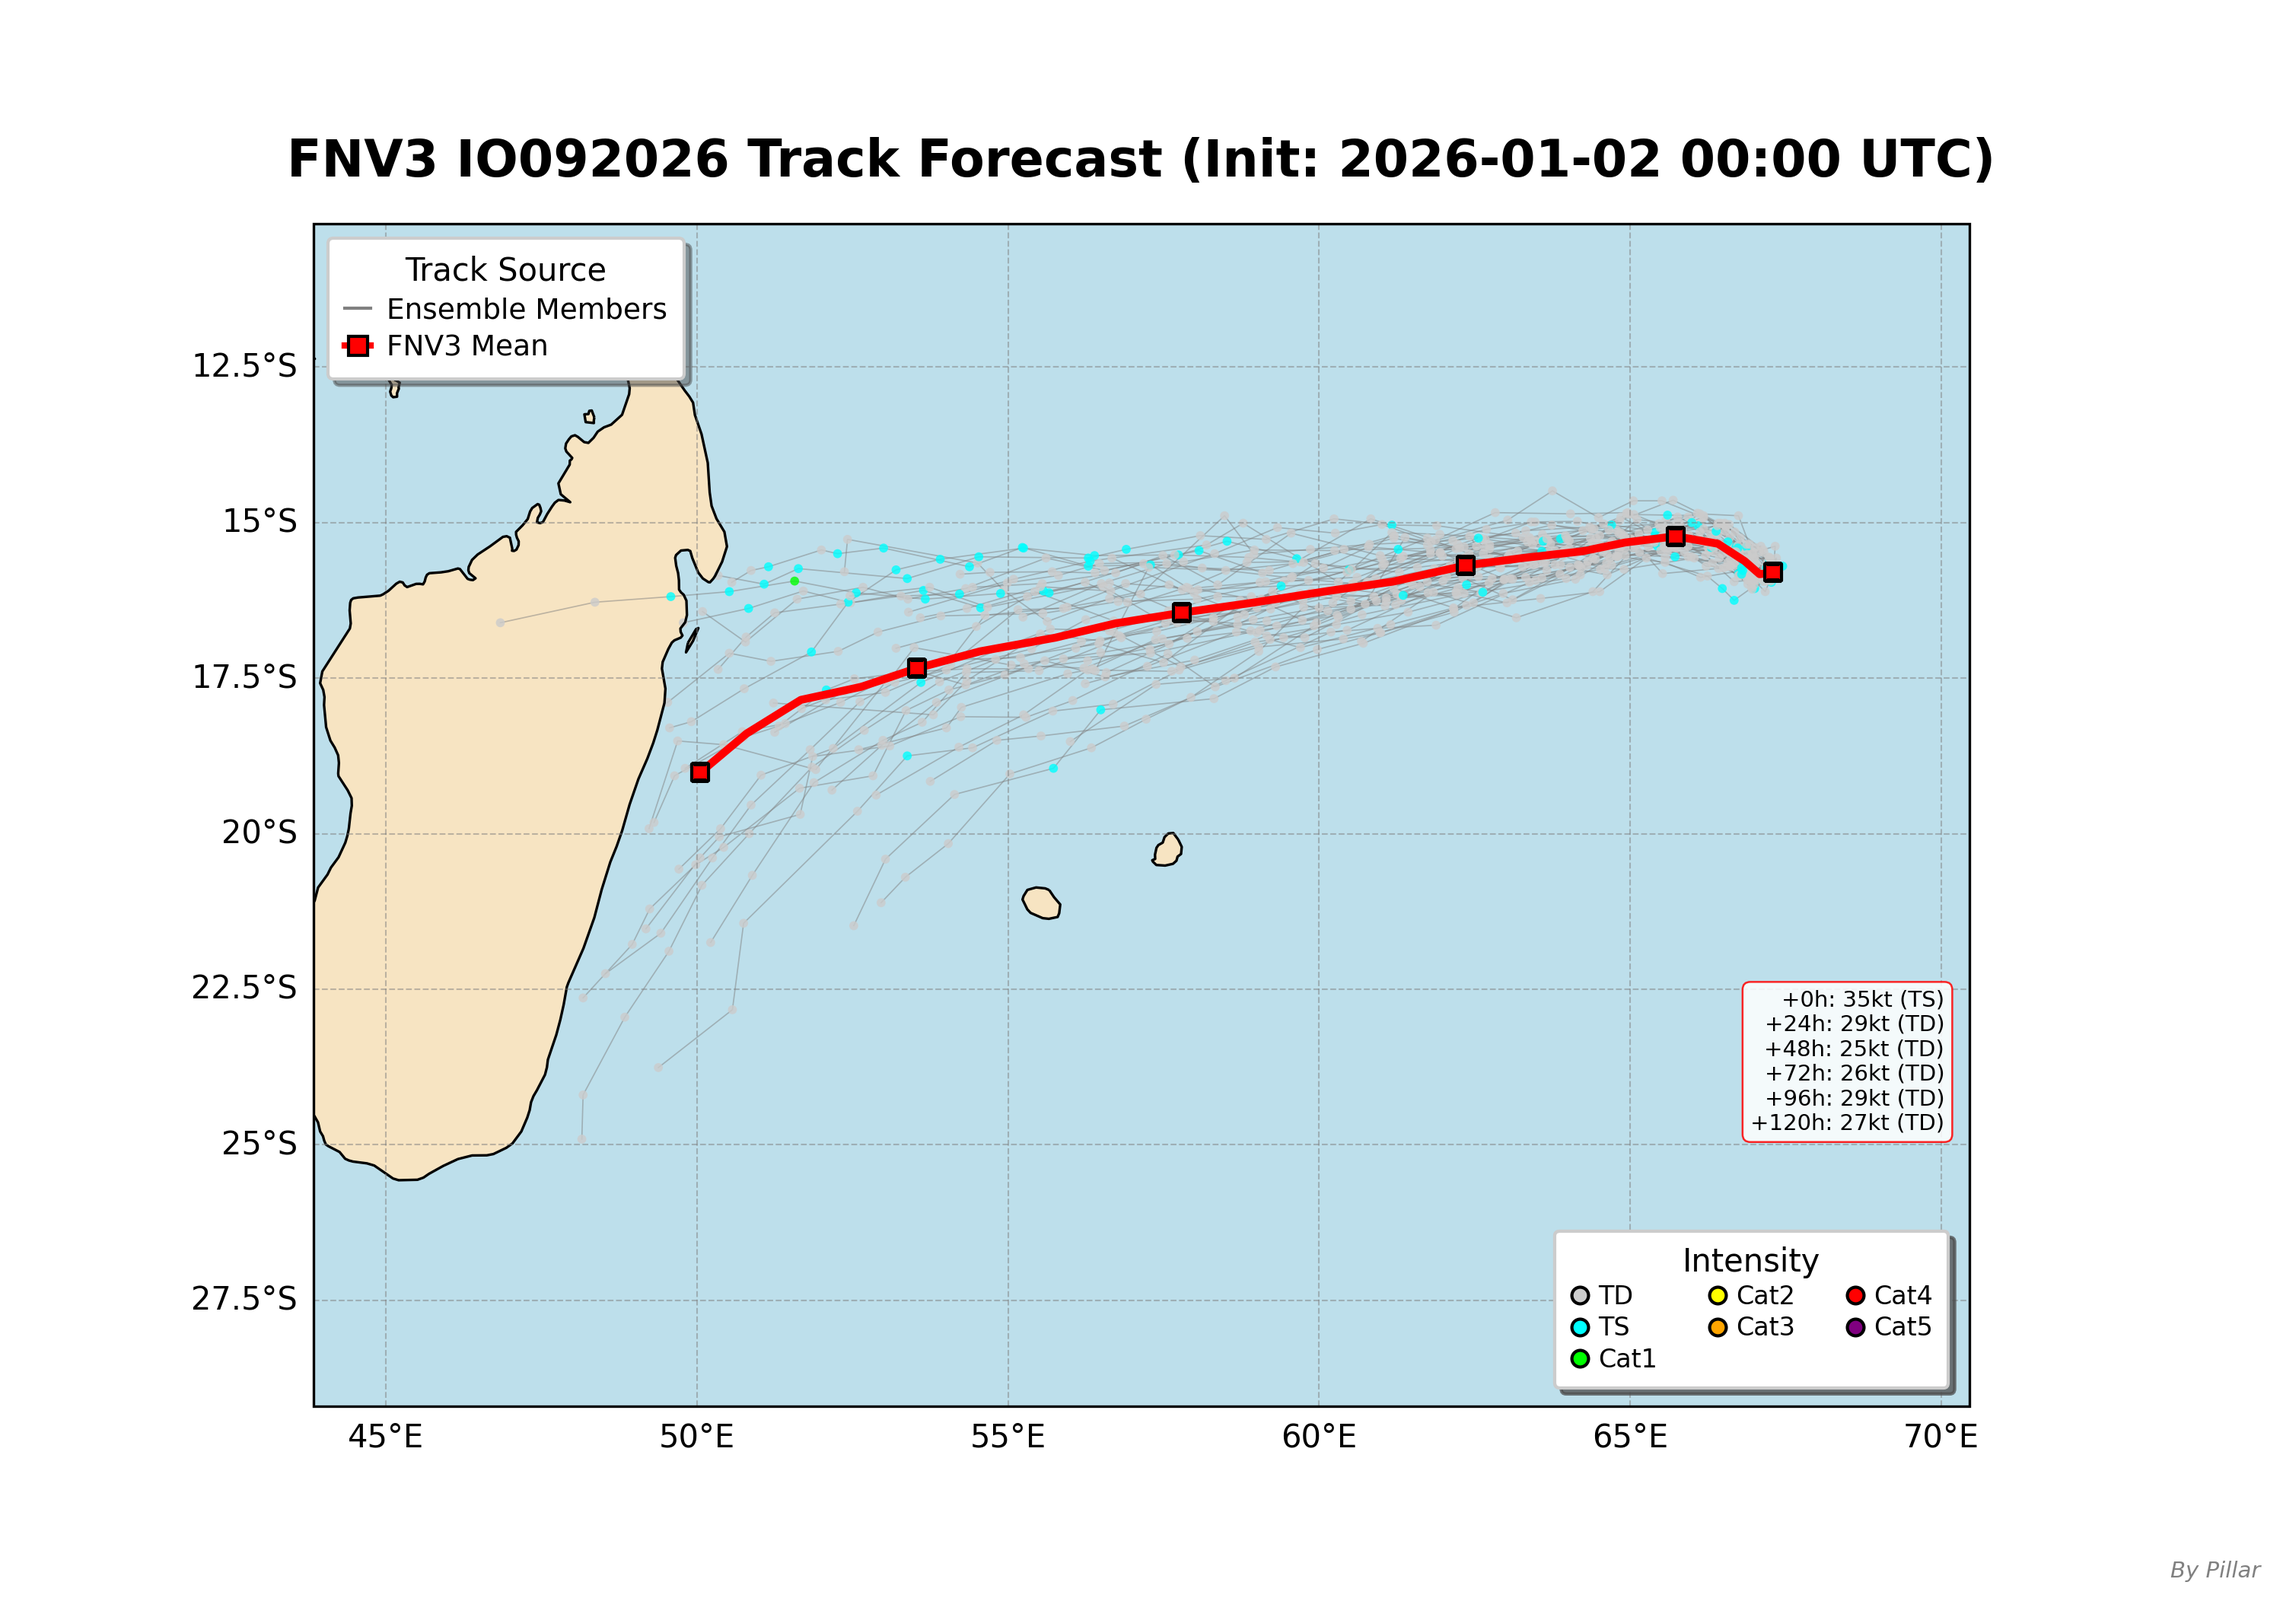
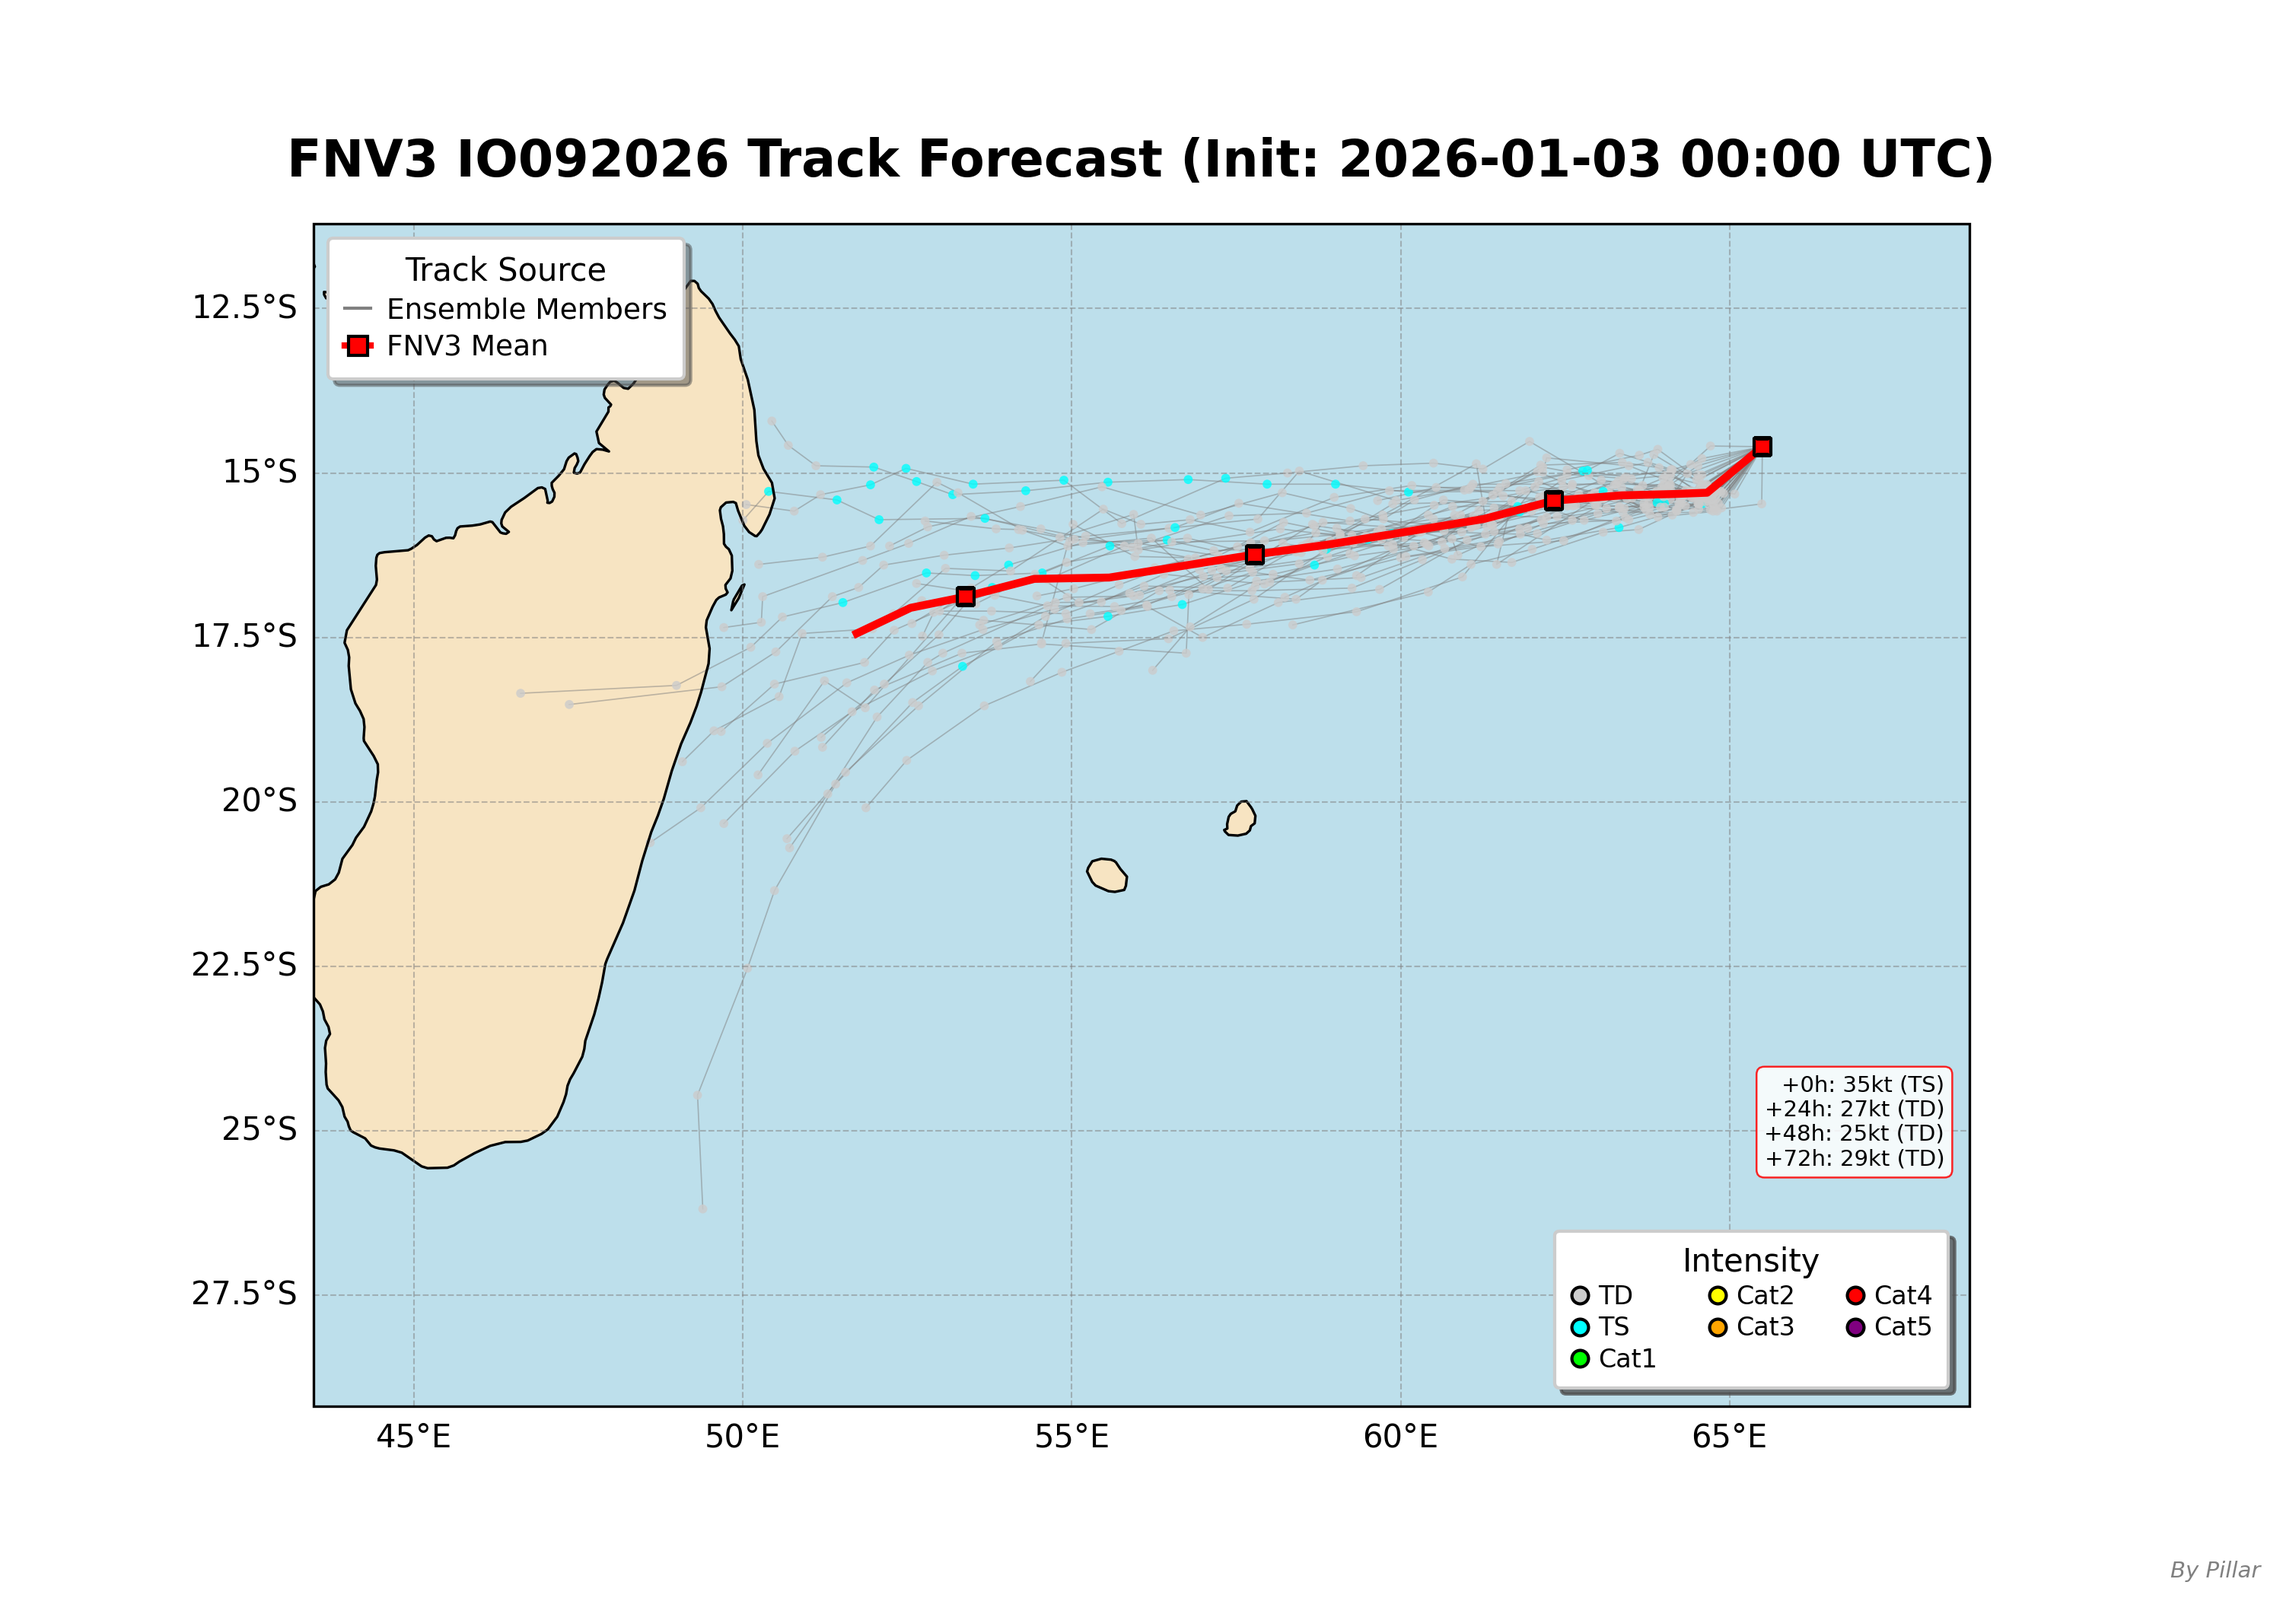
Add files via upload

diff --git a/index.html b/index.html
@@ -3,7 +3,7 @@
 <head>
     <meta charset="UTF-8">
     <meta name="viewport" content="width=device-width, initial-scale=1.0">
-    <title>Pillar's Tropical Cyclone Forecast | IO092026 / IO112026</title>
+    <title>Pillar's Tropical Cyclone Forecast | IO092026</title>
     <style>
         * {
             margin: 0;
@@ -689,7 +689,7 @@
                     <div class="subtitle">Real-time FNV3 Ensemble Forecast System</div>
                 </div>
                 <div class="update-badge">
-                    ⏰ Updated: 2026-01-02 15:18:21
+                    ⏰ Updated: 2026-01-03 16:07:18
                 </div>
             </div>
         </header>
@@ -708,11 +708,11 @@
                 <div class="info-grid">
                     <div class="info-item">
                         <div class="info-label">🛰 Current Time</div>
-                        <div class="info-value">020000 Z</div>
+                        <div class="info-value">030000 Z</div>
                     </div>
                     <div class="info-item">
                         <div class="info-label">📍 Current Position</div>
-                        <div class="info-value">15.7°S, 67.1°E</div>
+                        <div class="info-value">14.6°S, 65.1°E</div>
                     </div>
                     <div class="info-item">
                         <div class="info-label">💨 Maximum Wind</div>
@@ -727,11 +727,7 @@
                     </div>
                     <div class="info-item mobile-wind-radii" style="grid-column: span 2;">
                         <div class="info-label">🌀 34 kt Wind Radii</div>
-                        <div class="info-value">NE: 055 / SE: 070 / SW: 085 / NW: 085 nm</div>
-                    </div>
-                    <div class="info-item mobile-wind-radii" style="grid-column: span 2;">
-                        <div class="info-label">🌀 50 kt Wind Radii</div>
-                        <div class="info-value">NE: 030 / SE: 030 / SW: 020 / NW: 020 nm</div>
+                        <div class="info-value">NE: 000 / SE: 000 / SW: 060 / NW: 045 nm</div>
                     </div>
                 </div>
 
@@ -786,9 +782,9 @@
                         <button class="control-btn" onclick="pauseAnimation('IO092026')">⏸ Pause</button>
                         <button class="control-btn" onclick="resetAnimation('IO092026')">⟲ Reset</button>
                         <div class="progress-bar-container">
-                            <input type="range" id="progress-IO092026" class="progress-slider" min="0" max="24" value="0" 
+                            <input type="range" id="progress-IO092026" class="progress-slider" min="0" max="18" value="0" 
                                    oninput="seekFrame('IO092026', this.value)">
-                            <span id="frame-counter-IO092026" class="frame-counter">1/25</span>
+                            <span id="frame-counter-IO092026" class="frame-counter">1/19</span>
                         </div>
                     </div>
                 </div>
@@ -812,123 +808,6 @@
             <div class="map-container jtwc-forecast-map" style="margin-top: 30px;">
                 <div class="map-title">🌐 JTWC Official Forecast</div>
                 <img src="jtwc_IO092026.gif" alt="JTWC Forecast" class="map-image" onerror="this.parentElement.style.display='none'">
-                <div class="map-description" style="margin-top: 15px; color: #666; font-size: 0.95em; line-height: 1.6;">
-                    <strong>Source:</strong> Joint Typhoon Warning Center (JTWC) - U.S. Navy & Air Force
-                </div>
-            </div>
-        
-
-            <div class="storm-card">
-                <div class="storm-header">
-                    <div class="storm-title">
-                        IGGY <span class="alert-badge">LIVE</span>
-                    </div>
-                    <div class="storm-id">IO112026</div>
-                </div>
-
-                <div class="info-grid">
-                    <div class="info-item">
-                        <div class="info-label">🛰 Current Time</div>
-                        <div class="info-value">020000 Z</div>
-                    </div>
-                    <div class="info-item">
-                        <div class="info-label">📍 Current Position</div>
-                        <div class="info-value">15.4°S, 109.5°E</div>
-                    </div>
-                    <div class="info-item">
-                        <div class="info-label">💨 Maximum Wind</div>
-                        <div class="info-value">40 kt</div>
-                    </div>
-                    <div class="info-item">
-                        <div class="info-label">🔥 Intensity (Saffir-Simpson)</div>
-                        <div class="info-value intensity-value">
-                            <span class="intensity-dot" style="background: #00FFFF;"></span>
-                            <span class="legend-label">TS</span>
-                        </div>
-                    </div>
-                    <div class="info-item mobile-wind-radii" style="grid-column: span 2;">
-                        <div class="info-label">🌀 34 kt Wind Radii</div>
-                        <div class="info-value">NE: 040 / SE: 040 / SW: 050 / NW: 040 nm</div>
-                    </div>
-                </div>
-
-                <!-- Legend -->
-                <div class="legend">
-                    <div class="legend-title">🎨 Intensity Scale (Saffir-Simpson)</div>
-                    <div class="legend-items">
-                        <div class="legend-item">
-                            <div class="legend-color" style="background: #CCCCCC;"></div>
-                            <div class="legend-label">TD (< 34 kt)</div>
-                        </div>
-                        <div class="legend-item">
-                            <div class="legend-color" style="background: #00FFFF;"></div>
-                            <div class="legend-label">TS (34-63 kt)</div>
-                        </div>
-                        <div class="legend-item">
-                            <div class="legend-color" style="background: #00FF00;"></div>
-                            <div class="legend-label">Cat 1 (64-82 kt)</div>
-                        </div>
-                        <div class="legend-item">
-                            <div class="legend-color" style="background: #FFFF00;"></div>
-                            <div class="legend-label">Cat 2 (83-95 kt)</div>
-                        </div>
-                        <div class="legend-item">
-                            <div class="legend-color" style="background: #FFA500;"></div>
-                            <div class="legend-label">Cat 3 (96-112 kt)</div>
-                        </div>
-                        <div class="legend-item">
-                            <div class="legend-color" style="background: #FF0000;"></div>
-                            <div class="legend-label">Cat 4 (113-136 kt)</div>
-                        </div>
-                        <div class="legend-item">
-                            <div class="legend-color" style="background: #800080;"></div>
-                            <div class="legend-label">Cat 5 (≥ 137 kt)</div>
-                        </div>
-                    </div>
-                </div>
-            </div>
-
-            
-            <!-- Animation Player -->
-            <div class="animation-container">
-                <div class="animation-title">🎬 Track Evolution Animation</div>
-                <div class="animation-player">
-                    <img id="animation-frame-IO112026" 
-                         src="animation_frames_IO112026/frame_0000.png" 
-                         alt="Animation" 
-                         class="animation-frame"
-                         data-frames-dir="animation_frames_IO112026">
-                    <div class="player-controls">
-                        <button class="control-btn" onclick="playAnimation('IO112026')">▶ Play</button>
-                        <button class="control-btn" onclick="pauseAnimation('IO112026')">⏸ Pause</button>
-                        <button class="control-btn" onclick="resetAnimation('IO112026')">⟲ Reset</button>
-                        <div class="progress-bar-container">
-                            <input type="range" id="progress-IO112026" class="progress-slider" min="0" max="18" value="0" 
-                                   oninput="seekFrame('IO112026', this.value)">
-                            <span id="frame-counter-IO112026" class="frame-counter">1/19</span>
-                        </div>
-                    </div>
-                </div>
-                <div style="margin-top: 10px; color: #666; font-size: 0.9em;">
-                    <strong>Controls:</strong> Play/Pause the animation or use the slider to manually seek through frames.
-                </div>
-            </div>
-
-            <!-- Map Container -->
-            <div class="map-container">
-                <div class="map-title">📍 FNV3 Track Forecast Map</div>
-                <img src="IO112026_Forecast_Map.png" alt="IO112026 Forecast Map" class="map-image">
-                <div style="margin-top: 15px; color: #666; font-size: 0.95em; line-height: 1.6;">
-                    <strong>Note:</strong> Gray lines represent individual ensemble members (spaghetti plot). 
-                    Red line shows the ensemble mean track with 24-hour position markers. 
-                    Colored dots indicate intensity at 6-hour intervals.
-                </div>
-            </div>
-
-            <!-- JTWC Forecast Map Container -->
-            <div class="map-container jtwc-forecast-map" style="margin-top: 30px;">
-                <div class="map-title">🌐 JTWC Official Forecast</div>
-                <img src="jtwc_IO112026.gif" alt="JTWC Forecast" class="map-image" onerror="this.parentElement.style.display='none'">
                 <div class="map-description" style="margin-top: 15px; color: #666; font-size: 0.95em; line-height: 1.6;">
                     <strong>Source:</strong> Joint Typhoon Warning Center (JTWC) - U.S. Navy & Air Force
                 </div>
